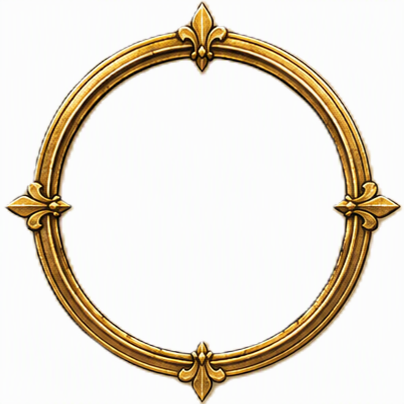
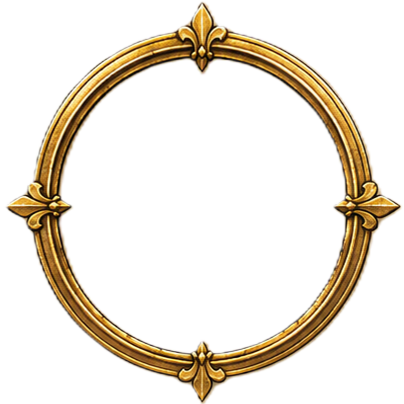
Portraitmatte und Goldrahmen korrigieren

diff --git a/Stammbäume/tests/run-tests.js b/Stammbäume/tests/run-tests.js
@@ -180,10 +180,14 @@ test('setzt beide Jahreszahlen ohne Von/Bis über die Linien des Zeitrahmens', (
 
 test('unterdrückt den rechteckigen Family-Chart-Hintergrund für alle Ebenenkarten', async () => {
   const css = await readFile(new URL('../assets/css/family-chart-theme.css', import.meta.url), 'utf8');
+  const goldFrame = await readFile(new URL('../assets/images/frames/crest-gold.png', import.meta.url));
   assert.match(css, /\.family-chart-host\.f3 div\.card \.aleria-chart-card\s*\{\s*background: transparent;/);
   assert.match(css, /\.aleria-crest-node__emblem-clip\s*\{[\s\S]*?z-index: 1;/);
   assert.match(css, /\.aleria-crest-node__emblem\s*\{[\s\S]*?scale\(var\(--crest-emblem-scale, 0\.86\)\);/);
   assert.match(css, /\.aleria-crest-node__frame\s*\{[\s\S]*?z-index: 4;/);
+  assert.doesNotMatch(css, /\.aleria-crest-node__frame\s*\{[\s\S]*?mix-blend-mode:/);
+  assert.match(css, /\.aleria-person-card__portrait-backdrop\s*\{[\s\S]*?width: 30\.6%;[\s\S]*?height: 80%;/);
+  assert.equal(goldFrame[25], 6, 'Der Goldrahmen muss als RGBA-PNG echte Transparenz besitzen.');
 });
 
 test('rendert Wappenknoten ohne eingeblendeten Aktions- oder Standardtext', () => {

diff --git a/Stammbäume/assets/css/family-chart-theme.css b/Stammbäume/assets/css/family-chart-theme.css
@@ -121,24 +121,31 @@
   clip-path: polygon(0 0, 94% 0, 100% 8%, 100% 91%, 94% 100%, 0 100%);
 }
 
-.aleria-person-card__portrait-backdrop,
-.aleria-person-card__portrait {
+.aleria-person-card__portrait-backdrop {
   position: absolute;
   z-index: 1;
+  top: 13.5%;
+  left: 5.2%;
+  width: 30.6%;
+  height: 80%;
+  border-radius: 50%;
+  background: #c6a173;
+  pointer-events: none;
+}
+
+.aleria-person-card__portrait {
+  position: absolute;
+  z-index: 2;
   top: 15.8%;
   left: 6.4%;
   width: 28.3%;
   height: 75.8%;
   border-radius: 50%;
-  background: #c6a173;
-  clip-path: ellipse(48% 49% at 50% 50%);
-  pointer-events: none;
-}
-
-.aleria-person-card__portrait {
-  z-index: 2;
+  background: transparent;
   object-fit: cover;
   object-position: center top;
+  clip-path: ellipse(48% 49% at 50% 50%);
+  pointer-events: none;
 }
 
 .aleria-person-card__text {
@@ -293,8 +300,6 @@
   width: 100%;
   height: 100%;
   object-fit: contain;
-  clip-path: circle(49% at 50% 50%);
-  mix-blend-mode: multiply;
   transform: scale(var(--crest-frame-scale, 1));
   transform-origin: center;
   pointer-events: none;
